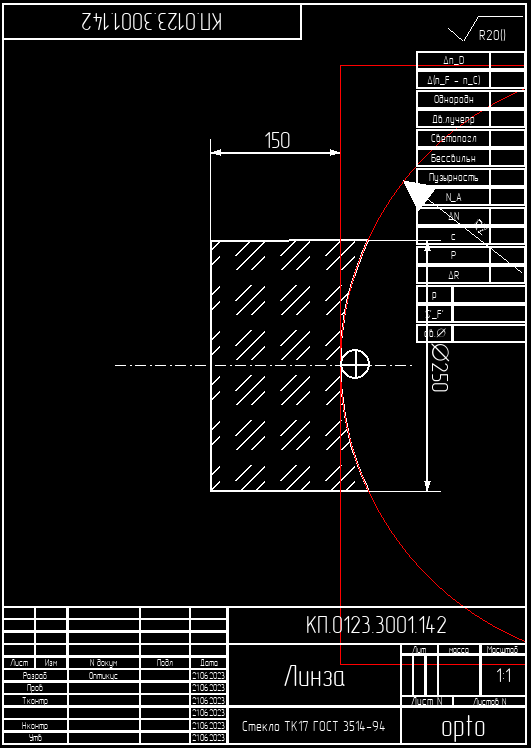
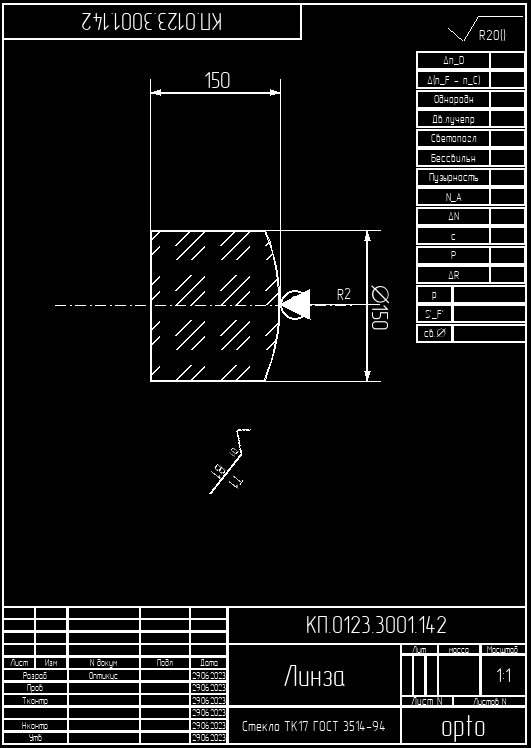
fixes
1. переписана отрисовка фигур, теперь они все опираются на self.point_1 и self.point_2. при изменении поверхности всё работает хорошо
2. теперь если изменить диаметр, фигуры не будут висеть в воздухе. будут принимать крайнее значение нового диаметра

diff --git a/figure/lens.py b/figure/lens.py
@@ -63,7 +63,7 @@ class lens:
 
 
         self.surface = pygame.Surface(
-            (2 * R1 if R1 > R2 else 2 * R2, 2*R1 if R1 >R2 else 2*R2), pygame.SRCALPHA)
+            (2 * (R1+100) if R1 > R2 else 2 * (R2+100), 2*(R1+100) if R1 >R2 else 2*(R2+100)), pygame.SRCALPHA)
         # self.surface.fill(self.colors['test'])
 
         self.surface_width = self.surface.get_width()
@@ -698,13 +698,18 @@ class lens:
                 if self.types[0] == 1:
                     self.measureDict['R1_measure'].limit = (180 - math.degrees(math.asin(diametr / 2 / R1)),
                                                             180 + math.degrees(math.asin(diametr / 2 / R1)))
-                    self.measureDict['R1_measure'].blit_point = (self.surface_width/2 - R1 - width/2,
-                                                                 R1 - self.measureDict['R1_measure'].surface.get_height()/2)
+                    self.measureDict['R1_measure'].blit_point = (self.point_1[0]-R1-(R1-math.sqrt(R1**2-(diametr/2)**2)),
+                                                                 self.point_1[1]-(R1*4-diametr)/2)
+                    # self.measureDict['R1_measure'].blit_point = (self.surface_width/2 - R1 - width/2,
+                    #                                              R1 - self.measureDict['R1_measure'].surface.get_height()/2)
                 elif self.types[0] == 2:
                     self.measureDict['R1_measure'].limit = (0 - math.degrees(math.asin(diametr / 2 / R1)),
                                                             0 + math.degrees(math.asin(diametr / 2 / R1)))
-                    self.measureDict['R1_measure'].blit_point = (self.surface_width / 2 - R1*2 - width/2,
-                                                                 0)
+                    self.measureDict['R1_measure'].blit_point = (self.point_1[0]-R1*2+(R1-math.sqrt(R1**2-(diametr/2)**2)),
+                                                                 self.point_1[1]-(R1*2-diametr)/2)
+                    # self.measureDict['R1_measure'].blit_point = (self.surface_width / 2 - R1*2 - width/2,
+                    #                                              0)
+                #print(self.point_1, self.point_2)
 
                 self.surface.blit(self.measureDict['R1_measure'].surface,
                                   self.measureDict['R1_measure'].blit_point)
@@ -760,13 +765,17 @@ class lens:
                 if self.types[1] == 2:
                     self.measureDict['R2_measure'].limit = (180 - math.degrees(math.asin(diametr / 2 / R2)),
                                                             180 + math.degrees(math.asin(diametr / 2 / R2)))
-                    self.measureDict['R2_measure'].blit_point = (self.surface_width/2 + width/2,
-                                                                 self.surface.get_height()/2-R2)
+                    self.measureDict['R2_measure'].blit_point = (self.point_2[0]-(R2-math.sqrt(R2**2-(diametr/2)**2)),
+                                                                 self.point_2[1]-(R2*2-diametr)/2)
+                    # self.measureDict['R2_measure'].blit_point = (self.surface_width/2 + width/2,
+                    #                                              self.surface.get_height()/2-R2)
                 elif self.types[1] == 1:
                     self.measureDict['R2_measure'].limit = (0 - math.degrees(math.asin(diametr / 2 / R2)),
                                                             0 + math.degrees(math.asin(diametr / 2 / R2)))
-                    self.measureDict['R2_measure'].blit_point = (self.surface.get_width()/2-R2*3+width/2,
-                                                                 self.surface.get_height()/2 - R2*2)
+                    self.measureDict['R2_measure'].blit_point = (self.point_2[0]-R2*3+(R2-math.sqrt(R2**2-(diametr/2)**2)),
+                                                                 self.point_2[1]-(R2*4-diametr)/2)
+                    # self.measureDict['R2_measure'].blit_point = (self.surface.get_width()/2-R2*3+width/2,
+                    #                                              self.surface.get_height()/2 - R2*2)
 
                 self.surface.blit(self.measureDict['R2_measure'].surface,
                                   self.measureDict['R2_measure'].blit_point)
@@ -824,17 +833,21 @@ class lens:
                     self.measureDict['roughness_measure_1'].limit = limit = (
                         180 - math.degrees(math.asin(diametr / 2 / R1)),
                         180 + math.degrees(math.asin(diametr / 2 / R1)))
-                    self.measureDict['roughness_measure_1'].blit_point = (
-                        self.surface_width - R1 - width/2 - (self.measureDict['roughness_measure_1'].surface.get_width()/2 - R1),
-                        R1 - self.measureDict['roughness_measure_1'].surface.get_height()/2)
+                    self.measureDict['roughness_measure_1'].blit_point = (self.point_1[0]-(R1-math.sqrt(R1**2-(diametr/2)**2))-self.measureDict['roughness_measure_1'].width,
+                                                                          self.point_1[1]-(R1*2-diametr)/2-self.measureDict['roughness_measure_1'].width)
+                    # self.measureDict['roughness_measure_1'].blit_point = (
+                    #     self.surface_width - R1 - width/2 - (self.measureDict['roughness_measure_1'].surface.get_width()/2 - R1),
+                    #     R1 - self.measureDict['roughness_measure_1'].surface.get_height()/2)
 
                 elif self.types[0] == 2:
                     self.measureDict['roughness_measure_1'].limit = limit = (
                         0 - math.degrees(math.asin(diametr / 2 / R1)),
                         0 + math.degrees(math.asin(diametr / 2 / R1)))
-                    self.measureDict['roughness_measure_1'].blit_point = (
-                        self.surface_width / 2 - R1*2 - width/2,
-                        R1 - self.measureDict['roughness_measure_1'].surface.get_height() / 2)
+                    self.measureDict['roughness_measure_1'].blit_point = (self.point_1[0]-R1*2+(R1-math.sqrt(R1**2-(diametr/2)**2)),
+                                                                          self.point_1[1]-(R1*2-diametr)/2)
+                    # self.measureDict['roughness_measure_1'].blit_point = (
+                    #     self.surface_width / 2 - R1*2 - width/2,
+                    #     R1 - self.measureDict['roughness_measure_1'].surface.get_height() / 2)
 
                 self.surface.blit(self.measureDict['roughness_measure_1'].surface,
                                   self.measureDict['roughness_measure_1'].blit_point)
@@ -911,17 +924,21 @@ class lens:
                     self.measureDict['roughness_measure_2'].limit = (
                         0 - math.degrees(math.asin(diametr / 2 / R2)),
                         0 + math.degrees(math.asin(diametr / 2 / R2)))
-                    self.measureDict['roughness_measure_2'].blit_point = (
-                        self.surface.get_width()/2-R2-self.measureDict['roughness_measure_2'].surface.get_width()/2+width/2,
-                        self.surface.get_height()/2 - self.measureDict['roughness_measure_2'].surface.get_height()/2)
+                    self.measureDict['roughness_measure_2'].blit_point = (self.point_2[0]-R2*2-self.measureDict['roughness_measure_2'].width+(R2-math.sqrt(R2**2-(diametr/2)**2)),
+                                                                          self.point_2[1]-(R2*2-diametr)/2-self.measureDict['roughness_measure_2'].width)
+                    # self.measureDict['roughness_measure_2'].blit_point = (
+                    #     self.surface.get_width()/2-R2-self.measureDict['roughness_measure_2'].surface.get_width()/2+width/2,
+                    #     self.surface.get_height()/2 - self.measureDict['roughness_measure_2'].surface.get_height()/2)
 
                 elif self.types[1] == 2:
                     self.measureDict['roughness_measure_2'].limit = (
                         180 - math.degrees(math.asin(diametr / 2 / R2)),
                         180 + math.degrees(math.asin(diametr / 2 / R2)))
-                    self.measureDict['roughness_measure_2'].blit_point = (
-                        self.surface_width / 2+width/2,
-                        self.surface.get_height()/2-R2)
+                    self.measureDict['roughness_measure_2'].blit_point = (self.point_2[0]-(R2-math.sqrt(R2**2-(diametr/2)**2)),
+                                                                          self.point_2[1]-(R2*2-diametr)/2)
+                    # self.measureDict['roughness_measure_2'].blit_point = (
+                    #     self.surface_width / 2+width/2,
+                    #     self.surface.get_height()/2-R2)
 
                 self.surface.blit(self.measureDict['roughness_measure_2'].surface,
                                   self.measureDict['roughness_measure_2'].blit_point)
@@ -1003,17 +1020,21 @@ class lens:
                     self.measureDict['cover_measure_1'].limit = (
                         180 - math.degrees(math.asin(diametr / 2 / R1)),
                         180 + math.degrees(math.asin(diametr / 2 / R1)))
-                    self.measureDict['cover_measure_1'].blit_point = (
-                        self.surface_width - R1 - width/2 - (self.measureDict['cover_measure_1'].surface.get_width()/2 - R1),
-                        R1 - self.measureDict['cover_measure_1'].surface.get_height()/2)
+                    self.measureDict['cover_measure_1'].blit_point = (self.point_1[0]-(R1-math.sqrt(R1**2-(diametr/2)**2))-self.measureDict['cover_measure_1'].width,
+                                                                      self.point_1[1] - (R1 * 2 - diametr) / 2 - self.measureDict['cover_measure_1'].height)
+                    # self.measureDict['cover_measure_1'].blit_point = (
+                    #     self.surface_width - R1 - width/2 - (self.measureDict['cover_measure_1'].surface.get_width()/2 - R1),
+                    #     R1 - self.measureDict['cover_measure_1'].surface.get_height()/2)
 
                 elif self.types[0] == 2:
                     self.measureDict['cover_measure_1'].limit = (
                         0 - math.degrees(math.asin(diametr / 2 / R1)),
                         0 + math.degrees(math.asin(diametr / 2 / R1)))
-                    self.measureDict['cover_measure_1'].blit_point = (
-                        self.surface_width / 2 - R1*2 - width/2,
-                        0)
+                    self.measureDict['cover_measure_1'].blit_point = (self.point_1[0]-R1*2+(R1-math.sqrt(R1**2-(diametr/2)**2)),
+                                                                      self.point_1[1] - (R1 * 2 - diametr) / 2)
+                    # self.measureDict['cover_measure_1'].blit_point = (
+                    #     self.surface_width / 2 - R1*2 - width/2,
+                    #     0)
                 self.surface.blit(self.measureDict['cover_measure_1'].surface,
                                   self.measureDict['cover_measure_1'].blit_point)
 
@@ -1092,16 +1113,22 @@ class lens:
                         0 - math.degrees(math.asin(diametr / 2 / R2)),
                         0 + math.degrees(math.asin(diametr / 2 / R2)))
                     self.measureDict['cover_measure_2'].blit_point = (
-                        self.surface.get_width()/2-R2-self.measureDict['cover_measure_2'].surface.get_width()/2+width/2,
-                        self.surface.get_height()/2 - self.measureDict['cover_measure_2'].surface.get_height()/2)
+                        self.point_2[0] - R2 * 2 + (R2 - math.sqrt(R2 ** 2 - (diametr / 2) ** 2)) - self.measureDict['cover_measure_2'].width,
+                        self.point_2[1] - (R2 * 2 - diametr) / 2 - self.measureDict['cover_measure_2'].height)
+                    # self.measureDict['cover_measure_2'].blit_point = (
+                    #     self.surface.get_width()/2-R2-self.measureDict['cover_measure_2'].surface.get_width()/2+width/2,
+                    #     self.surface.get_height()/2 - self.measureDict['cover_measure_2'].surface.get_height()/2)
 
                 elif self.types[1] == 2:
                     self.measureDict['cover_measure_2'].limit = (
                         180 - math.degrees(math.asin(diametr / 2 / R2)),
                         180 + math.degrees(math.asin(diametr / 2 / R2)))
                     self.measureDict['cover_measure_2'].blit_point = (
-                        self.surface_width / 2+width/2,
-                        self.surface.get_height()/2-R2)
+                        self.point_2[0] - (R2 - math.sqrt(R2 ** 2 - (diametr / 2) ** 2)),
+                        self.point_2[1] - (R2 * 2 - diametr) / 2)
+                    # self.measureDict['cover_measure_2'].blit_point = (
+                    #     self.surface_width / 2+width/2,
+                    #     self.surface.get_height()/2-R2)
                 self.surface.blit(self.measureDict['cover_measure_2'].surface,
                                   self.measureDict['cover_measure_2'].blit_point)
                 # if (self.types[1] == 2):

diff --git a/figure/figure_new/tasks_may/roughness_class.py b/figure/figure_new/tasks_may/roughness_class.py
@@ -106,6 +106,20 @@ class RoughnessMeasure:
         if not self.moved_once:
             self.angle = self.start_angle
 
+        if self.limit is not None:
+            if self.formatted_angle(self.limit[0]) > self.formatted_angle(self.limit[1]):
+                if self.formatted_angle(self.limit[1]) < self.formatted_angle(self.angle) < self.formatted_angle(self.limit[0]):
+                    if abs(self.formatted_angle(self.angle) - self.formatted_angle(self.limit[1])) < abs(self.formatted_angle(self.angle)-self.formatted_angle(self.limit[0])):
+                        self.angle = self.limit[1]
+                    else:
+                        self.angle = self.limit[0]
+            elif self.formatted_angle(self.limit[0]) < self.formatted_angle(self.limit[1]):
+                if self.formatted_angle(self.limit[1]) < self.formatted_angle(self.angle) or self.formatted_angle(self.angle) < self.formatted_angle(self.limit[0]):
+                    if abs(self.formatted_angle(self.angle) - self.formatted_angle(self.limit[1])) < abs(self.formatted_angle(self.angle)-self.formatted_angle(self.limit[0])):
+                        self.angle = self.limit[1]
+                    else:
+                        self.angle = self.limit[0]
+
         if self.roughness_type == 1:
 
             short_radius = math.sqrt(
@@ -193,7 +207,7 @@ class RoughnessMeasure:
 
             # pygame.draw.rect(self.surface, self.colors['test'], self.roughness_rect, 1)
             # pygame.draw.line(self.surface, self.colors['test'], self.surface_center, dot_on_surface)
-        #pygame.draw.rect(self.surface, self.colors['test'], self.surface.get_rect(), 1)
+        # pygame.draw.rect(self.surface, self.colors['test'], self.surface.get_rect(), 1)
         self.screen.blit(self.surface, self.blit_point)
 
     def create_surface(self):

diff --git a/figure/figure_new/tasks_may/covers_class.py b/figure/figure_new/tasks_may/covers_class.py
@@ -81,7 +81,21 @@ class CoversMeasure:
         if not self.moved_once:
             self.angle = self.start_angle
 
-        # Рисуем крестик на поверхности
+        if self.limit is not None:
+            if self.formatted_angle(self.limit[0]) > self.formatted_angle(self.limit[1]):
+                if self.formatted_angle(self.limit[1]) < self.formatted_angle(self.angle) < self.formatted_angle(self.limit[0]):
+                    if abs(self.formatted_angle(self.angle) - self.formatted_angle(self.limit[1])) < abs(self.formatted_angle(self.angle)-self.formatted_angle(self.limit[0])):
+                        self.angle = self.limit[1]
+                    else:
+                        self.angle = self.limit[0]
+            elif self.formatted_angle(self.limit[0]) < self.formatted_angle(self.limit[1]):
+                if self.formatted_angle(self.limit[1]) < self.formatted_angle(self.angle) or self.formatted_angle(self.angle) < self.formatted_angle(self.limit[0]):
+                    if abs(self.formatted_angle(self.angle) - self.formatted_angle(self.limit[1])) < abs(self.formatted_angle(self.angle)-self.formatted_angle(self.limit[0])):
+                        self.angle = self.limit[1]
+                    else:
+                        self.angle = self.limit[0]
+
+        # Рисуем фигуру на поверхности
         self.get_cover_points()
         # Внешние непрозрачные
         if self.type == 1:

diff --git a/figure/figure_new/tasks_may/radius_class.py b/figure/figure_new/tasks_may/radius_class.py
@@ -141,6 +141,20 @@ class Radius:
         if not self.moved_once:
             self.angle = self.start_angle
 
+        if self.limit is not None:
+            if self.formatted_angle(self.limit[0]) > self.formatted_angle(self.limit[1]):
+                if self.formatted_angle(self.limit[1]) < self.formatted_angle(self.angle) < self.formatted_angle(self.limit[0]):
+                    if abs(self.formatted_angle(self.angle) - self.formatted_angle(self.limit[1])) < abs(self.formatted_angle(self.angle)-self.formatted_angle(self.limit[0])):
+                        self.angle = self.limit[1]
+                    else:
+                        self.angle = self.limit[0]
+            elif self.formatted_angle(self.limit[0]) < self.formatted_angle(self.limit[1]):
+                if self.formatted_angle(self.limit[1]) < self.formatted_angle(self.angle) or self.formatted_angle(self.angle) < self.formatted_angle(self.limit[0]):
+                    if abs(self.formatted_angle(self.angle) - self.formatted_angle(self.limit[1])) < abs(self.formatted_angle(self.angle)-self.formatted_angle(self.limit[0])):
+                        self.angle = self.limit[1]
+                    else:
+                        self.angle = self.limit[0]
+
         # drawing pointer
         # drawing line
         self.get_line_points()
